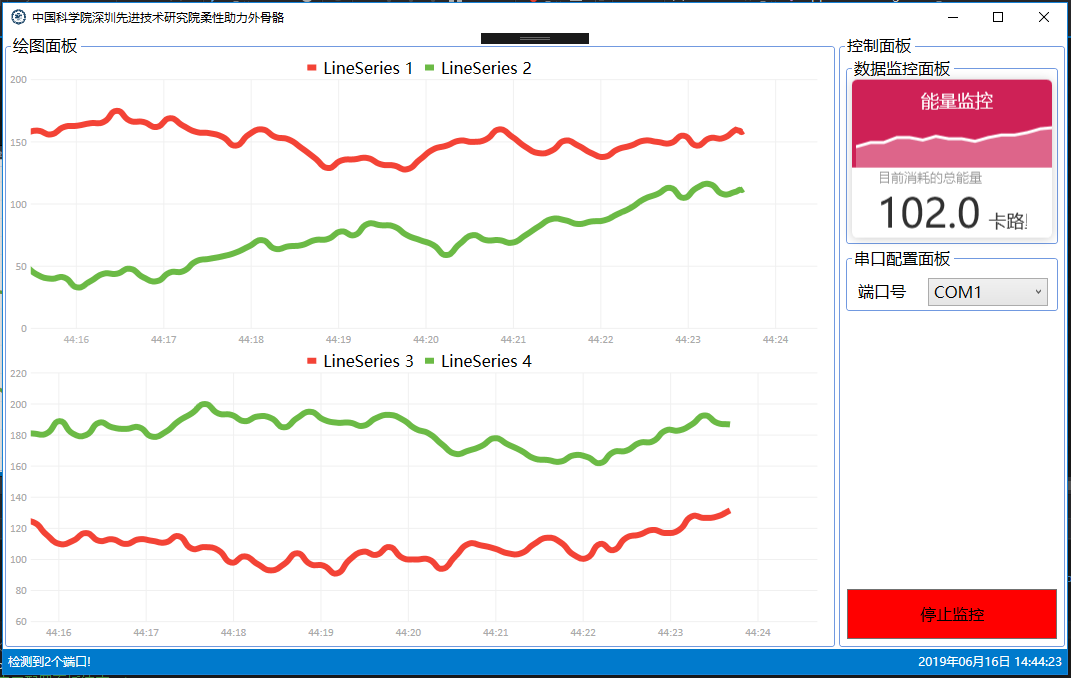
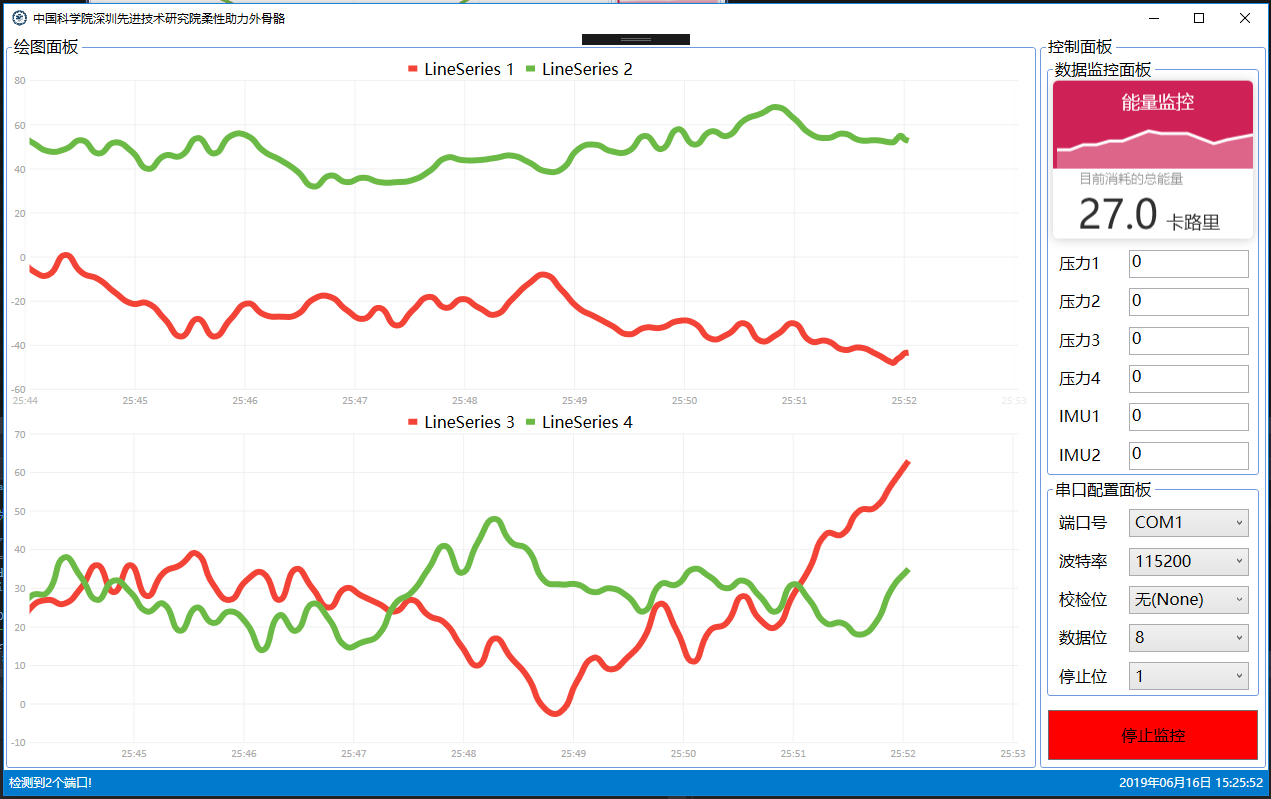
界面完成；准备做串口通信

diff --git a/FlexibleExoskeleton/FlexibleExoskeleton/MainWindow.xaml b/FlexibleExoskeleton/FlexibleExoskeleton/MainWindow.xaml
@@ -6,12 +6,11 @@
         xmlns:local="clr-namespace:FlexibleExoskeleton"
         xmlns:lvc="clr-namespace:LiveCharts.Wpf;assembly=LiveCharts.Wpf"
         mc:Ignorable="d"
-        Title="中国科学院深圳先进技术研究院柔性助力外骨骼" Height="680" Width="1080"
+        Title="中国科学院深圳先进技术研究院柔性助力外骨骼" Height="800" Width="1280"
         Icon="logo2016.ico"
         Loaded="Window_Loaded"
         xmlns:constantChanges="clr-namespace:FlexibleExoskeleton"
-        d:DesignHeight="300" d:DesignWidth="300" d:DataContext="{d:DesignInstance constantChanges:MainWindow}"
-        WindowState="Maximized">
+        d:DesignHeight="300" d:DesignWidth="300" d:DataContext="{d:DesignInstance constantChanges:MainWindow}">
     <DockPanel Background="White">
         <!--状态栏开始-->
         <StatusBar DockPanel.Dock="Bottom" x:Name="statusBar" Background="#FF007ACC" Padding="2">
@@ -37,7 +36,8 @@
                             <GroupBox Name="MonitorPanel" DockPanel.Dock="Top" Header="数据监控面板" FontSize="16" Margin="1" BorderThickness="1" BorderBrush="#FF7199E0">
                                 <DockPanel>
                                     <!--动态能量显示板开始-->
-                                    <Grid DockPanel.Dock="Top" Margin="1, 2, 1, 1" MaxHeight="250" Width="200">
+                                    <Grid DockPanel.Dock="Top" Margin="1, 2, 1, 1" MaxHeight="250">
+                                        <!--添加阴影-->
                                         <Grid.Effect>
                                             <DropShadowEffect BlurRadius="15" Direction="-90" RenderingBias="Quality" Opacity=".2" ShadowDepth="1"/>
                                         </Grid.Effect>
@@ -81,6 +81,66 @@
                                         </StackPanel>
                                     </Grid>
                                     <!--动态能量显示板结束-->
+                                    <!--压力传感器1显示框开始-->
+                                    <Grid Margin="2,0,0,0" DockPanel.Dock="Top">
+                                        <Grid.ColumnDefinitions>
+                                            <ColumnDefinition Width="10*"/>
+                                            <ColumnDefinition Width="10*"/>
+                                        </Grid.ColumnDefinitions>
+                                        <TextBlock Text="压力1" FontSize="16" Grid.Column="0" TextWrapping="Wrap" Margin="5,13,5,5"/>
+                                        <TextBox x:Name="Pressure1_Textbox" Grid.Column="1" IsReadOnly="True" Width="120" Height="28" Margin="5,10,5,0" Text="0" FontSize="16"/>
+                                    </Grid>
+                                    <!--压力传感器1显示框结束-->
+                                    <!--压力传感器2显示框开始-->
+                                    <Grid Margin="2,0,0,0" DockPanel.Dock="Top">
+                                        <Grid.ColumnDefinitions>
+                                            <ColumnDefinition Width="10*"/>
+                                            <ColumnDefinition Width="10*"/>
+                                        </Grid.ColumnDefinitions>
+                                        <TextBlock Text="压力2" FontSize="16" Grid.Column="0" TextWrapping="Wrap" Margin="5,13,5,5"/>
+                                        <TextBox x:Name="Pressure2_Textbox" Grid.Column="1" IsReadOnly="True" Width="120" Height="28" Margin="5,10,5,0" Text="0" FontSize="16"/>
+                                    </Grid>
+                                    <!--压力传感器2显示框结束-->
+                                    <!--压力传感器3显示框开始-->
+                                    <Grid Margin="2,0,0,0" DockPanel.Dock="Top">
+                                        <Grid.ColumnDefinitions>
+                                            <ColumnDefinition Width="10*"/>
+                                            <ColumnDefinition Width="10*"/>
+                                        </Grid.ColumnDefinitions>
+                                        <TextBlock Text="压力3" FontSize="16" Grid.Column="0" TextWrapping="Wrap" Margin="5,13,5,5"/>
+                                        <TextBox x:Name="Pressure3_Textbox" Grid.Column="1" IsReadOnly="True" Width="120" Height="28" Margin="5,10,5,0" Text="0" FontSize="16"/>
+                                    </Grid>
+                                    <!--压力传感器3显示框结束-->
+                                    <!--压力传感器4显示框开始-->
+                                    <Grid Margin="2,0,0,0" DockPanel.Dock="Top">
+                                        <Grid.ColumnDefinitions>
+                                            <ColumnDefinition Width="10*"/>
+                                            <ColumnDefinition Width="10*"/>
+                                        </Grid.ColumnDefinitions>
+                                        <TextBlock Text="压力4" FontSize="16" Grid.Column="0" TextWrapping="Wrap" Margin="5,13,5,5"/>
+                                        <TextBox x:Name="Pressure4_Textbox" Grid.Column="1" IsReadOnly="True" Width="120" Height="28" Margin="5,10,5,0" Text="0" FontSize="16"/>
+                                    </Grid>
+                                    <!--压力传感器4显示框结束-->
+                                    <!--IMU1显示框开始-->
+                                    <Grid Margin="2,0,0,0" DockPanel.Dock="Top">
+                                        <Grid.ColumnDefinitions>
+                                            <ColumnDefinition Width="10*"/>
+                                            <ColumnDefinition Width="10*"/>
+                                        </Grid.ColumnDefinitions>
+                                        <TextBlock Text="IMU1" FontSize="16" Grid.Column="0" TextWrapping="Wrap" Margin="5,13,5,5"/>
+                                        <TextBox x:Name="IMU1_Textbox" Grid.Column="1" IsReadOnly="True" Width="120" Height="28" Margin="5,10,5,0" Text="0" FontSize="16"/>
+                                    </Grid>
+                                    <!--IMU1显示框结束-->
+                                    <!--IMU2显示框开始-->
+                                    <Grid Margin="2,0,0,0" DockPanel.Dock="Top">
+                                        <Grid.ColumnDefinitions>
+                                            <ColumnDefinition Width="10*"/>
+                                            <ColumnDefinition Width="10*"/>
+                                        </Grid.ColumnDefinitions>
+                                        <TextBlock Text="IMU2" FontSize="16" Grid.Column="0" TextWrapping="Wrap" Margin="5,13,5,5"/>
+                                        <TextBox x:Name="IMU2_Textbox" Grid.Column="1" IsReadOnly="True" Width="120" Height="28" Margin="5,10,5,0" Text="0" FontSize="16"/>
+                                    </Grid>
+                                    <!--IMU2显示框结束-->
                                 </DockPanel>
                             </GroupBox>
                             <!--数据监控面板结束-->
@@ -88,7 +148,7 @@
                             <!--串口配置面板开始-->
                             <GroupBox Name="PortsPanel" DockPanel.Dock="Top" Header="串口配置面板" FontSize="16" Margin="1" BorderThickness="1" BorderBrush="#FF7199E0">
                                 <DockPanel>
-                                    <!--串口选择下拉选项框-->
+                                    <!--端口号下拉选项框开始-->
                                     <Grid Margin="2,0,0,0" DockPanel.Dock="Top">
                                         <Grid.ColumnDefinitions>
                                             <ColumnDefinition Width="10*"/>
@@ -99,6 +159,70 @@
                                             <ComboBoxItem>请选择端口</ComboBoxItem>
                                         </ComboBox>
                                     </Grid>
+                                    <!--端口号下拉选项框结束-->
+                                    <!--波特率下拉选项框开始-->
+                                    <Grid Margin="2,0,0,0" DockPanel.Dock="Top">
+                                        <Grid.ColumnDefinitions>
+                                            <ColumnDefinition Width="10*"/>
+                                            <ColumnDefinition Width="10*"/>
+                                        </Grid.ColumnDefinitions>
+                                        <TextBlock Text="波特率" FontSize="16" Grid.Column="0" TextWrapping="Wrap" Margin="5,13,5,5"/>
+                                        <ComboBox x:Name="DaudRateComboBox" Grid.Column="1" Width="120" Height="28" FontSize="16" Margin="5,10,5,0" DropDownClosed="DaudRateComboBox_DropDownClosed">
+                                            <ComboBoxItem>1200</ComboBoxItem>
+                                            <ComboBoxItem>2400</ComboBoxItem>
+                                            <ComboBoxItem>4800</ComboBoxItem>
+                                            <ComboBoxItem>9600</ComboBoxItem>
+                                            <ComboBoxItem>19200</ComboBoxItem>
+                                            <ComboBoxItem>38400</ComboBoxItem>
+                                            <ComboBoxItem IsSelected="True">115200</ComboBoxItem>
+                                        </ComboBox>
+                                    </Grid>
+                                    <!--波特率下拉选项框结束-->
+                                    <!--校检位下拉选项框开始-->
+                                    <Grid Margin="2,0,0,0" DockPanel.Dock="Top">
+                                        <Grid.ColumnDefinitions>
+                                            <ColumnDefinition Width="10*"/>
+                                            <ColumnDefinition Width="10*"/>
+                                        </Grid.ColumnDefinitions>
+                                        <TextBlock Text="校检位" FontSize="16" Grid.Column="0" TextWrapping="Wrap" Margin="5,13,5,5"/>
+                                        <ComboBox x:Name="ParityComboBox" Grid.Column="1" Width="120" Height="28" FontSize="16" Margin="5,10,5,0" DropDownClosed="ParityComboBox_DropDownClosed">
+                                            <ComboBoxItem Tag="None" IsSelected="True">无(None)</ComboBoxItem>
+                                            <ComboBoxItem Tag="Even">偶校验(Even)</ComboBoxItem>
+                                            <ComboBoxItem Tag="Odd">奇校验(Odd)</ComboBoxItem>
+                                            <ComboBoxItem Tag="Space">保留为0(Space)</ComboBoxItem>
+                                            <ComboBoxItem Tag="Mark">保留为1(Mark)</ComboBoxItem>
+                                        </ComboBox>
+                                    </Grid>
+                                    <!--校检位下拉选项框结束-->
+                                    <!--数据位下拉选项框开始-->
+                                    <Grid Margin="2,0,0,0" DockPanel.Dock="Top">
+                                        <Grid.ColumnDefinitions>
+                                            <ColumnDefinition Width="10*"/>
+                                            <ColumnDefinition Width="10*"/>
+                                        </Grid.ColumnDefinitions>
+                                        <TextBlock Text="数据位" FontSize="16" Grid.Column="0" TextWrapping="Wrap" Margin="5,13,5,5"/>
+                                        <ComboBox x:Name="DataBitsComboBox" Grid.Column="1" Width="120" Height="28" FontSize="16" Margin="5,10,5,0" DropDownClosed="DataBitsComboBox_DropDownClosed">
+                                            <ComboBoxItem IsSelected="True">8</ComboBoxItem>
+                                            <ComboBoxItem>7</ComboBoxItem>
+                                            <ComboBoxItem>6</ComboBoxItem>
+                                            <ComboBoxItem>5</ComboBoxItem>
+                                        </ComboBox>
+                                    </Grid>
+                                    <!--数据位下拉选项框结束-->
+                                    <!--停止位下拉选项框开始-->
+                                    <Grid Margin="2,0,0,0" DockPanel.Dock="Top">
+                                        <Grid.ColumnDefinitions>
+                                            <ColumnDefinition Width="10*"/>
+                                            <ColumnDefinition Width="10*"/>
+                                        </Grid.ColumnDefinitions>
+                                        <TextBlock Text="停止位" FontSize="16" Grid.Column="0" TextWrapping="Wrap" Margin="5,13,5,5"/>
+                                        <ComboBox x:Name="StopBitsComboBox" Grid.Column="1" Width="120" Height="28" FontSize="16" Margin="5,10,5,0" DropDownClosed="StopBitsComboBox_DropDownClosed">
+                                            <ComboBoxItem IsSelected="True">1</ComboBoxItem>
+                                            <ComboBoxItem>1.5</ComboBoxItem>
+                                            <ComboBoxItem>2</ComboBoxItem>
+                                        </ComboBox>
+                                    </Grid>
+                                    <!--停止位下拉选项框结束-->
                                 </DockPanel>
                             </GroupBox>
                             <!--串口配置面板结束-->

diff --git a/FlexibleExoskeleton/FlexibleExoskeleton/MainWindow.xaml.cs b/FlexibleExoskeleton/FlexibleExoskeleton/MainWindow.xaml.cs
@@ -34,13 +34,20 @@ namespace FlexibleExoskeleton
         // 声明串口类实例
         private Ports ports = new Ports();
 
-        //扫描串口
+        // 扫描串口
         private string[] SPCount = null; //用来存储计算机串口名称数组
         private int comcount = 0; //用来存储计算机可用串口数目，初始化为0
         private bool flag = false;
         private string readData_com = null; //存储读取数据所用串口
 
-        //绘图
+        // 串口参数
+        private string portName = null; // 串口名
+        private int baudRate = 115200; // 波特率
+        private string parity = "无(None)"; // 校检位
+        private int dataBits = 8; // 数据位
+        private int stopBits = 1; // 停止位
+
+        // 绘图
         private bool IsReading = false; // 动态绘图的标记：true为开始绘图，false为停止绘图
         private int NUM_POINTS = 60; // ，每条动态曲线的最大点数
         #endregion
@@ -160,25 +167,6 @@ namespace FlexibleExoskeleton
 
                 bt.Content = "开始监控";
                 bt.Background = Brushes.GreenYellow;
-            }
-        }
-        #endregion
-
-        #region 下拉选项框
-        private void DataComboBox_DropDownClosed(object sender, EventArgs e) // 【端口号】下拉选项框选择好后执行
-        {
-            ComboBoxItem item = DataComboBox.SelectedItem as ComboBoxItem; //下拉窗口当前选中的项赋给item
-            string tempstr = item.Content.ToString(); //将选中的项目转为字串存储在tempstr中
-
-            for (int i = 0; i < SPCount.Length; i++)
-            {
-                if (tempstr == SPCount[i])
-                {
-                    readData_com = SPCount[i];
-                    ports.Data_SerialPort_Init(SPCount[i]); //串口初始化
-
-                    Start_Button.IsEnabled = true; // 配置好端口后使能【开始监控按钮】
-                }
             }
         }
         #endregion
@@ -430,5 +418,52 @@ namespace FlexibleExoskeleton
         #endregion
 
         #endregion
+
+        #region 下拉选项框
+        private void DataComboBox_DropDownClosed(object sender, EventArgs e) // 【端口号】下拉选项框选择好后执行
+        {
+            ComboBoxItem item = DataComboBox.SelectedItem as ComboBoxItem; //下拉窗口当前选中的项赋给item
+            string tempstr = item.Content.ToString(); //将选中的项目转为字串存储在tempstr中
+
+            for (int i = 0; i < SPCount.Length; i++)
+            {
+                if (tempstr == SPCount[i])
+                {
+                    readData_com = SPCount[i];
+                    ports.Data_SerialPort_Init(SPCount[i]); //串口初始化
+
+                    Start_Button.IsEnabled = true; // 配置好端口后使能【开始监控按钮】
+                }
+            }
+        }
+
+        private void DaudRateComboBox_DropDownClosed(object sender, EventArgs e) // 【波特位】下拉选项框选择好后执行
+        {
+
+        }
+
+        private void ParityComboBox_DropDownClosed(object sender, EventArgs e) // 【校验位】下拉选项框选择好后执行
+        {
+
+        }
+
+        private void DataBitsComboBox_DropDownClosed(object sender, EventArgs e) // 【数据位】下拉选项框选择好后执行
+        {
+
+        }
+
+        private void StopBitsComboBox_DropDownClosed(object sender, EventArgs e) // 【停止位】下拉选项框选择好后执行
+        {
+
+        }
+        #endregion
+
+
+
+
+
+
+
+
     }
 }

diff --git a/FlexibleExoskeleton/FlexibleExoskeleton/Ports.cs b/FlexibleExoskeleton/FlexibleExoskeleton/Ports.cs
@@ -44,7 +44,7 @@ namespace FlexibleExoskeleton
             data_SerialPort = new SerialPort(); // 串口实例
             data_SerialPort.PortName = comstring; // 串口名
             data_SerialPort.BaudRate = 115200; // 比特率
-            //data_SerialPort.DataBits = 8; // 数据位
+            data_SerialPort.DataBits = 8; // 数据位
             data_SerialPort.Parity = Parity.None; // 校检位
             data_SerialPort.StopBits = StopBits.One; // 停止位
             data_SerialPort.Open();
